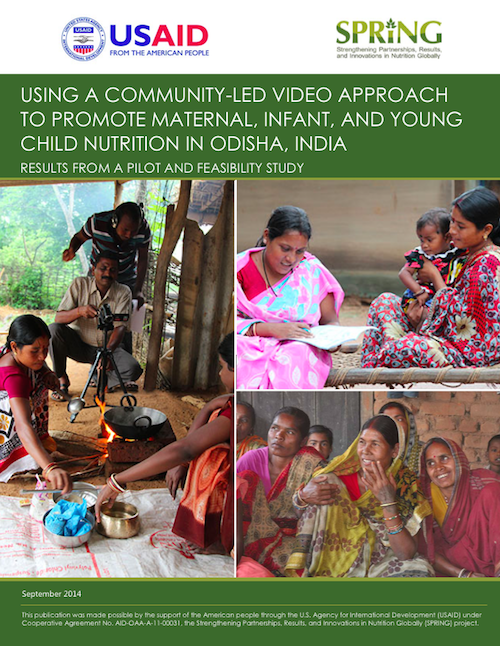
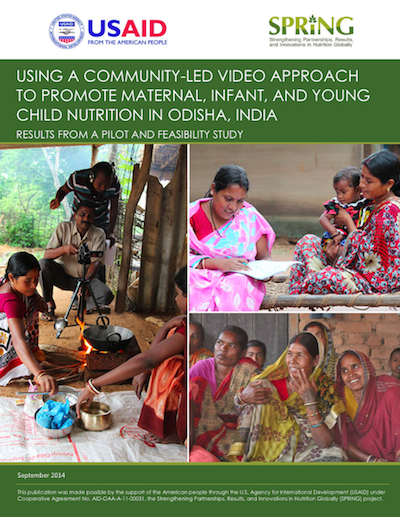
Added authors, reduce image sizes

diff --git a/dg/templates/social_website/research.html b/dg/templates/social_website/research.html
@@ -122,6 +122,8 @@
                                 </a>
                                 <div class="grid-pad-lt-sm">
                                     <a>A Rural Video-Based Social Network for Farmer Training</a>
+                                    <div class="copy-italic">Authors: Kerry Harwin and Rikin Gandhi
+                                    </div>
                                 </div>
                             </div> 
                             <div class="grid-col grid-size1of3 layout-vr-lg">
@@ -132,6 +134,8 @@
                                 </a>
                                 <div class="grid-pad-lt-sm">
                                     <a>Enabling a Collective Process of Learning in Rural Development</a>
+                                    <div class="copy-italic">Authors: Rikin Gandhi, Shreya Aggarwal and Remya Sasindaran
+                                    </div>
                                 </div>
                             </div>                
                         </div>
